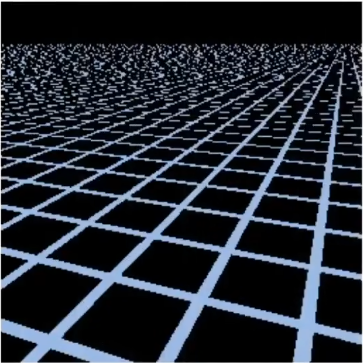
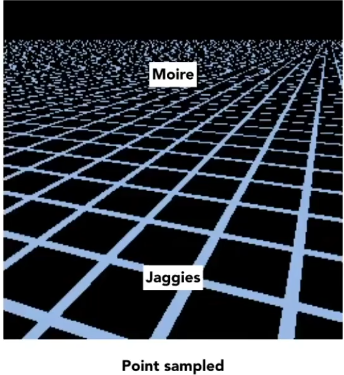
feat(post):【CG】Games101-09学习笔记 & 作业解析mipmap更新

diff --git a/content/posts/games_series/games101_09.md b/content/posts/games_series/games101_09.md
@@ -69,13 +69,46 @@ $$mid = lerp(a, b, 0.5) = a + 0.5(b - a) = \frac{b+a}{2}$$
 而双线性插值就是三次线性插值，如图我们可以分别对$u_00$和$u_10$，$u_01$和$u_11$，使用参数$s$，进行一次线性插值得到$u_0$和$u_1$，我们再使用得到的这两个点使用参数$t$进行线性插值，最后的到我们要的像素颜色
 ![](images/cg/games_series/games101/09/image6.png)
 
-# TODO下面这段没写完（今天太累了），需优化
 ## Mipmap
 上面是纹理比模型小的问题，下面我们来看看纹理比模型大的问题
 ![](images/cg/games_series/games101/09/image7.png)
-当我们直接使用插值得到的纹理坐标进行纹理映射，那么我们会得到上面这幅图的情形，摩尔纹和锯齿。  
-我们来分析一下这个问题，在近处一个像素覆盖到纹理上的区域相对较小，而远处一个像素覆盖到一个纹理的区域相对较大，如果一个近处的像素查询纹理的值由于这个像素覆盖的纹理的大小和像素差不多大，那么我们得到的就是我们想要的值。可是如果一个远处的像素，我们他在纹理上覆盖了很大的位置，而我们只使用这个区域的中心的纹理像素颜色作为查询结果，这就会导致这些问题。我们可以使用SSAA来解决这个问题，但是太费时间了！
+当我们直接使用插值得到的纹理坐标进行纹理映射，那么我们会得到上面这幅图的情形，摩尔纹和锯齿，也就是走样问题。  
+我们来分析一下这个问题，在近处一个像素覆盖到纹理上的区域相对较小，而远处一个像素覆盖到一个纹理的区域相对较大，如果一个近处的像素我们使用他的像素的中心查询纹理的值，由于这个像素覆盖的纹理的大小和像素差不多大，那么我们得到的就是我们想要的值。可是如果一个远处的像素，我们他在纹理上覆盖了很大的位置，而我们只使用这个区域的中心的纹理像素颜色作为查询结果，这就会导致这些问题。我们可以使用SSAA来解决这个问题，但是太费时间了！
 ![](images/cg/games_series/games101/09/image8.png)
-这是一个走样的问题，而在这里近处可能是纹理像素的频率跟不上像素的频率，而远处可能是像素的频率跟不上纹理像素的频率导致走样的。所以我们需要让不同位置的纹理的频率与像素的频率统一起来，怎么做呢？生成包含多张分辨率的图片，这个方法叫做Mipmap
+这是一个走样的问题，走样的问题是由于信号变化太快而我们采样的速度跟不上而导致的，
+而在这里就是远处的一个像素覆盖了很大的一部分纹理区域，而纹理区域很大代表着信号频率变化快，意味着我们不能使用一个采样点进行采样，也就是一个远处的像素内部有非常高频的信号，我们需要一个更高频率的采样方法。但是我们还有另一种思路，既然我们的采样点跟不上信号变化的频率，那我们让信号跟上采样的频率不就行了，也就是修改纹理，让一个采样点能获取其覆盖区域的平均值就行了，也就是我们需要一个方法，给你一个点能获取其区域平均值，这个方法叫做范围查询。  
+而在图形学中我们经常使用一个叫做Mipmap的范围查询方法，它很快，但是是近似的，且只能是方形的范围查询，Mipmap就是使用一张图生成一系列图，第 $i$ level 的图片是第 $i-1$ level 的图片的一半。
 ![](images/cg/games_series/games101/09/image9.png)
+而我们生成了这么多新的图片，我们引入了多少额外的存储量呢？也就是相对于原始图片，我们需要多少额外的存储量呢？很简单这是一个等比级数求和的问题，公比是$q = \frac{1}{4}$，根据等比数列求和公式
+$S = \frac{a}{1-q}$，其中 $a$ 是初始值，也就是初始图片的大小我们假设为$N\times N$，那么所有图片占用的空间就是
+$$S = \frac{N^2}{1-\frac{1}{4}} = \frac{4}{3}N^2$$
+那么额外的存储量$S^\prime$就是
+$$S^\prime = \frac{4}{3}N^2 - N^2 = \frac{1}{3}N^2$$
+也就是多出了$\frac{1}{3}$的存储空间，可以看到非常的省空间，无论原始图片多大，Mipmap生成的图片都只多出原来的$\frac{1}{3}$
 
+对于这些图片，我们可以在使用之前提前计算好，Mipmap有多层，要用哪一层就使用索引就行了
+![](images/cg/games_series/games101/09/image10.png)
+
+那么我们怎么得到一个像素在纹理上覆盖多大的区域呢？
+![](images/cg/games_series/games101/09/image11.png)
+如上图，我们选择一个像素以及这个周围的邻居，然后我们将这些点映射到纹理空间中去，然后我们通过图片上计算L的公式可以获得在纹理空间中，我们选择的一个点距离其他的领域的最大距离，我们使用这个最大距离以选择的这个点的中心做一个正方形，我们使用这个正方形代表我们这个像素在纹理上覆盖的区域，而在这里计算区域的面积不是关键，关键是我们怎么通过这个正方形，通过我们计算好的Mipmap查询纹理像素大小对应的值，例如如果我们这里得到的正方形是1x1的，那么我们就可以直接去原始图形中查询，如果正方形是4x4的并且在Mipmap的第2层上这个对应的4x4区域会变成1x1，刚好能对应回我们的屏幕空间。所以我们可以通过图片中的这个公式
+$$D = \log_{2}L$$
+来获得这个正方形的Mipmap层数，然后使用这一层的图片进行采样。
+而下面这张图使用颜色可视化了不同的像素需要使用的 Mipmap Level等级
+![](images/cg/games_series/games101/09/image12.png)
+可以看到不同的颜色之间是直接突变的，这是由于我们的Mipmap的层级是整数的，没有1.8层，所以我们为了解决这个问题可以用插值。  
+假如说我们要查询$D$和$D+1$之间的值，那么我们可以同时查询$D$和$D+1$，使用双线性插值得到结果，再将两个结果再进行一次线性插值,不用做范围查询了！这个方法叫做三线性插值
+![](images/cg/games_series/games101/09/image13.png)
+下面是三线性插值的实际应用
+![](images/cg/games_series/games101/09/image14.png)
+# Anisotropic Filtering
+但是我们现在了解的mipmap做出的效果是下面的样子，可以看到远处被过度模糊了，这是由于我们的mipmap是使用正方形进行以及三线性插值导致的
+![](images/cg/games_series/games101/09/image15.png)
+而为了避免这种情况，我们引入了一个新的方法 anisotropic filtering 各向异性过滤
+![](images/cg/games_series/games101/09/image16.png)
+Mipmap是同时对图片的长和宽进行缩小，但是各项异性过滤是分别对长和宽进行缩小，存储大小是原来的3倍
+![](images/cg/games_series/games101/09/image17.png)
+这种方式就能解决我们实际上的问题，实际上我们的像素在纹理空间上覆盖的往往是长方形而不是正方形
+![](images/cg/games_series/games101/09/image18.png)
+但是各向异性过滤还是没能解决问题，他只能使用"横平竖直"的矩形区域，但是对于斜着的区域还是没有方法
+解决这个问题的有一种方法叫做 EWA Filtering
